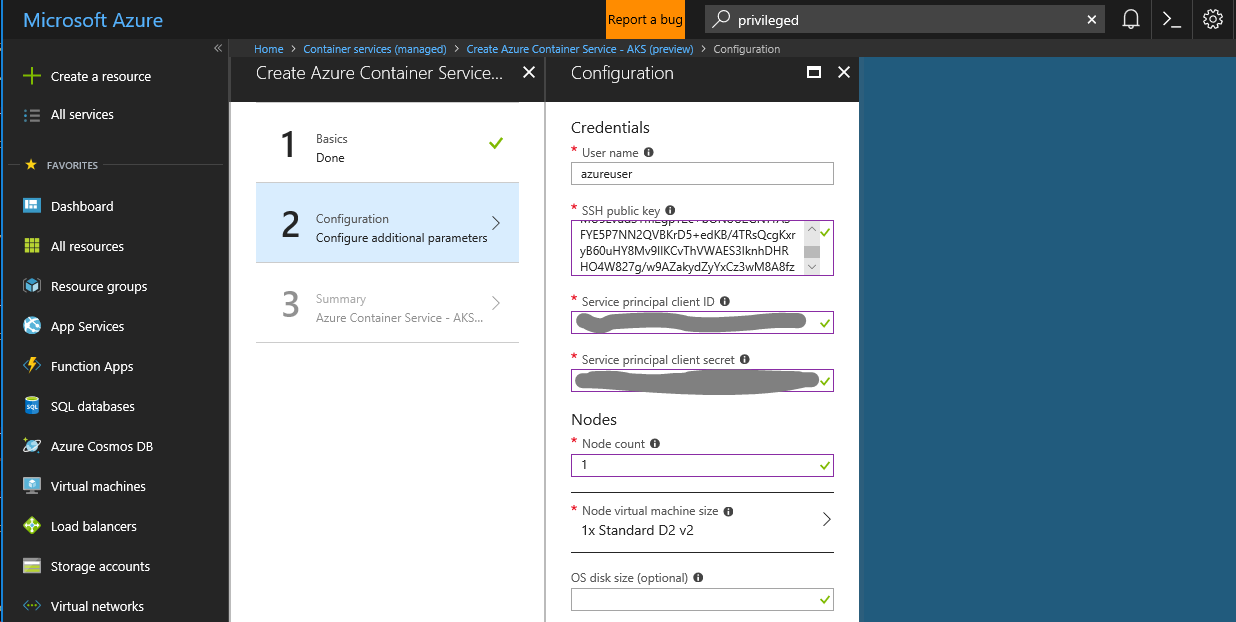
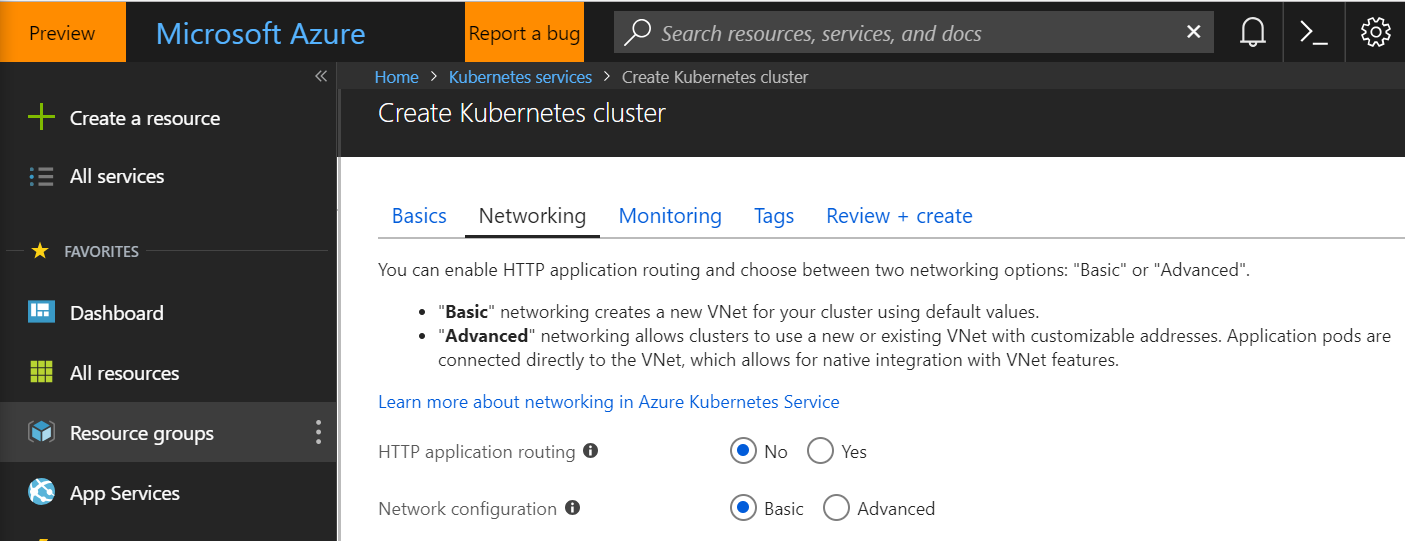
Updated Readme doc and images

diff --git a/extensions/k8s-dash-deploy/README.md b/extensions/k8s-dash-deploy/README.md
@@ -1,6 +1,6 @@
 ## Create an Azure Container Service (AKS) cluster and then use *Kubernetes Dashboard* to deploy the *po-service* Springboot Java Microservice
 
-In order to access the Kubernetes Dashboard (Web UI), a PC (or a VM) running MacOS or Linux Desktop OS such as Fedora/Ubuntu/Debian (any Linux flavor) will be required.  Alternatively, a Windows 10 PC running Ubuntu/Debian/SLES Linux OS on Windows Sub-System for Linux should also work.  Azure CLI v2.0.4 or later should be installed on this VM/Machine.  Refer to the [Azure CLI 2.0](https://docs.microsoft.com/en-us/cli/azure/install-azure-cli?view=azure-cli-latest) documentation to install Azure CLI on this machine.
+In order to access the Kubernetes Dashboard (Web UI), a PC (or a VM) running MacOS or Linux Desktop OS such as Fedora/Ubuntu/Debian (any Linux flavor) will be required.  Alternatively, a Windows 10 PC running Ubuntu/Debian/SLES Linux OS on Windows Sub-System for Linux should also work.  Azure CLI v2.0.4 or later **should** be installed on this VM/Machine.  Refer to the [Azure CLI 2.0](https://docs.microsoft.com/en-us/cli/azure/install-azure-cli?view=azure-cli-latest) documentation to install Azure CLI on this machine.
 For the remainder of this text, this machine (Linux/MacOS/Windows) will be referred to as the **Host** machine.
 
 You will first deploy an AKS cluster on Azure using the Azure Portal.  You will then use the Kubernetes Dashboard (Web) UI to deploy the **MySQL** database and **po-service** application containers.
@@ -34,15 +34,25 @@ $ kubectl version -o yaml
 
 ![alt tag](./images/Az-01.PNG)
 
-3.  Search for **Container services (managed)** PaaS service in **All services**. Click on the link to open up the blade (detail panel).  Then click on *Create container service (managed)* button.  Provide details for AKS cluster as shown in the screen shots below.  In the summary page, review all the details and then click on **Ok**.  
+3.  Search for **Kubernetes services (PREVIEW)** PaaS service in **All services**. Click on the link to open up the blade (detail panel).  Then click on *Create Kubernetes service* button.
 
 ![alt tag](./images/k8s-dash-deploy-01.PNG)
 
+In the *Basics* tab, leave the default value for **Service principal** and specify values for **Subscription**, **Resource group**, **Kubernetes cluster name** & **DNS name prefix** as shown in the screenshot below.  Also, change the value of field **Node count** to **1** or else AKS will deploy a 3-node cluster (default).  Click **Next:Networking**.
+
 ![alt tag](./images/k8s-dash-deploy-02.PNG)
+
+Leave all the default values as-is on the **Networking** tab.  Click **Monitoring**.
 
 ![alt tag](./images/k8s-dash-deploy-03.PNG)
 
+Leave the default values on the **Monitoring** and **Tags** tabs and click on **Review + create** button.
+
 ![alt tag](./images/k8s-dash-deploy-04.PNG)
+
+In the summary page, review all the details and then click on **Create**.
+
+![alt tag](./images/k8s-dash-deploy-041.PNG)
 
 The AKS cluster will take a few minutes (5-10 mins) to get provisioned.  Once the cluster creation process finishes, the **akscluster** cluster will be displayed in the list as shown in the screenshot below.
 
@@ -118,7 +128,7 @@ $ kubectl get secrets
 
 ![alt tag](./images/k8s-dash-deploy-11.PNG)
 
--  Create the MySQL Replication Controller API object.  Click on the *Replication Controllers* link on the left navigational panel and then click on *Create* link on the top.  Cut and paste the contents of file *./k8s-scripts/mysql-rc.yaml* into the editor and then click *UPLOAD*.  Alternatively, use the *Create From File" option to upload the contents of this file and create the Replication Controller API object.
+-  Create the MySQL *Deployment* API object.  Click on the *Deployments* link on the left navigational panel and then click on *Create* link on the top.  Cut and paste the contents of file *./k8s-scripts/mysql-deployment.yaml* into the editor and then click *UPLOAD*.  Alternatively, use the *Create From File" option to upload the contents of this file and create the Kubernetes Deployment API object.
 
 ![alt tag](./images/k8s-dash-deploy-12.PNG)
 
@@ -126,7 +136,7 @@ $ kubectl get secrets
 
 ![alt tag](./images/k8s-dash-deploy-14.PNG)
 
-11.  Update the file **k8s-scripts/app-rc.yaml**.  The *image* attribute should point to your ACR instance.  This will ensure AKS pulls the application container image from the correct registry.  Substitute the correct value for the ACR *registry name* in the *image* attribute (highlighted in yellow) in the pod spec as shown in the screenshot below.
+11.  Update the file **k8s-scripts/app-deployment.yaml**.  The *image* attribute should point to your ACR instance.  This will ensure AKS pulls the application container image from the correct registry.  Substitute the correct value for the ACR *registry name* in the *image* attribute (highlighted in yellow) in the pod spec as shown in the screenshot below.
 
 ![alt tag](./../../images/D-01.PNG)
 
@@ -149,7 +159,7 @@ $ kubectl get secrets
 
 ![alt tag](./images/k8s-dash-deploy-20.PNG)
 
--  Create the Replication Controller API object.  Click on the *Replication Controllers* link on the left navigational panel and then click on *Create* link on the top.  Cut and paste the contents of file *./k8s-scripts/app-rc.yaml* into the editor and then click *UPLOAD*.  Alternatively, use the *Create From File" option to upload the contents of this file and create the replication controller API object.
+-  Create the po-service *Deployment* API object.  Click on the *Deployments* link on the left navigational panel and then click on *Create* link on the top.  Cut and paste the contents of file *./k8s-scripts/app-deployment.yaml* into the editor and then click *UPLOAD*.  Alternatively, use the *Create From File" option to upload the contents of this file and create the Kubernetes Deployment API object.
 
 ![alt tag](./images/k8s-dash-deploy-21.PNG)
 
